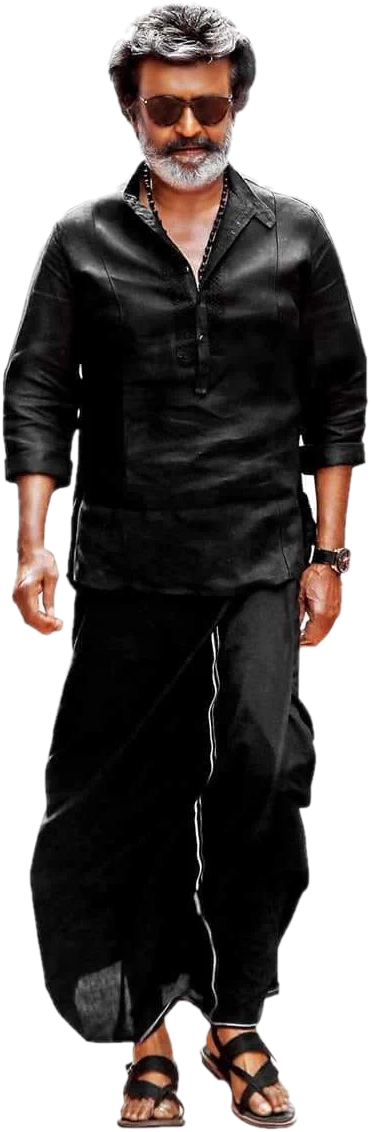
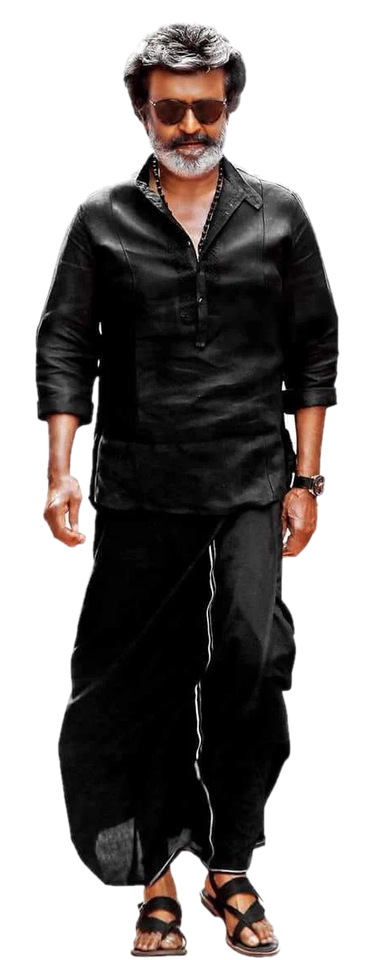
Make Thalaivar walk across the screen with real steps
Adds an animated walk cycle (alternating stride, bob, weight shift)
built from the photo, and lets him enter from the left or right
(random by default) and leave out the opposite side.

Claude-Session: https://claude.ai/code/session_01WXbiP563WEqUmaNAeeU3jy

diff --git a/overlay/overlay.js b/overlay/overlay.js
@@ -62,10 +62,11 @@ async function enter(data) {
 
   custom.hidden = !state.custom;
   cartoon.style.display = state.custom ? 'none' : '';
+  character.classList.toggle('custom', !!state.custom);
 
   bubble.classList.add('hidden');
   buttons.classList.remove('hidden');
-  place(-WIDTH - 80, false);
+  place(offstage(state.fromLeft), false);
   await wait(50);
 
   const centre = Math.round(window.innerWidth / 2 - WIDTH / 2);
@@ -76,7 +77,13 @@ async function enter(data) {
   bubble.classList.remove('hidden');
 }
 
-async function leave(text, toRight) {
+// Just off the left or right edge of the screen.
+function offstage(left) {
+  return left ? -WIDTH - 80 : window.innerWidth + 80;
+}
+
+// He keeps walking the way he came in, so he crosses the whole screen.
+async function leave(text) {
   buttons.classList.add('hidden');
   line.textContent = text;
   // Re-trigger the pop animation for the new text.
@@ -87,7 +94,7 @@ async function leave(text, toRight) {
 
   await wait(1800);
   bubble.classList.add('hidden');
-  await walkTo(toRight ? window.innerWidth + 80 : -WIDTH - 80);
+  await walkTo(offstage(!state.fromLeft));
   character.classList.remove('happy');
   busy = false;
   window.thalaivar.done();
@@ -100,7 +107,7 @@ $('yes').addEventListener('click', () => {
 
 $('later').addEventListener('click', () => {
   window.thalaivar.answer('later');
-  leave(fill('Sari sari... {snoozeMinutes} nimisham. I\'ll be back, {name}! 🕶'), false);
+  leave(fill('Sari sari... {snoozeMinutes} nimisham. I\'ll be back, {name}! 🕶'));
 });
 
 // Count comes back from the main process after YES, so the thanks line is accurate.
@@ -110,7 +117,7 @@ window.thalaivar.onCount(({ count, goal }) => {
     count >= goal
       ? fill('Goal done! {count}/{goal} 🏆 En vazhi, hydrated vazhi, {name}!', { count, goal })
       : fill(pick(THANKS), { count, goal });
-  leave(text, true);
+  leave(text);
 });
 
 // The window ignores mouse clicks except while you're over the bubble.

diff --git a/overlay/overlay.css b/overlay/overlay.css
@@ -32,6 +32,8 @@ html, body {
 #custom { max-width: 260px; max-height: 470px; object-fit: contain; }
 
 .walking #body { animation: bob .45s ease-in-out infinite; }
+/* walk.webp already has its own steps and bob */
+.custom.walking #body { animation: none; }
 .walking .foot { animation: step .9s ease-in-out infinite; }
 .walking #footR { animation-delay: -.45s; }
 .walking #veshti { animation: sway .9s ease-in-out infinite; transform-origin: 100px 252px; }

diff --git a/main.js b/main.js
@@ -13,6 +13,7 @@ const DEFAULT_CONFIG = {
   intervalMinutes: 45,
   snoozeMinutes: 10,
   dailyGoal: 8,
+  enterFrom: 'random', // 'left', 'right' or 'random'
 };
 
 let tray;
@@ -100,6 +101,7 @@ function remind() {
     count: glassesToday(),
     goal: config.dailyGoal,
     snoozeMinutes: config.snoozeMinutes,
+    fromLeft: config.enterFrom === 'random' ? Math.random() < 0.5 : config.enterFrom !== 'right',
     custom,
   });
   updateTray();

diff --git a/README.md b/README.md
@@ -8,7 +8,7 @@ Thalaivar walks onto your screen, right over VS Code, and tells you to drink wat
 
 ![Thalaivar reminder](assets/preview.png)
 
-- 🚶 Walks in from the side of the screen and stops in the middle
+- 🚶 Walks in from the left or right (taking real steps), stops in the middle, then carries on across and off the other side
 - 💬 Speech bubble with a random punch dialogue and your name
 - ✅ **YES** logs a glass and he walks off happy; **Remind me later** snoozes for 10 minutes
 - 💧 Today's glass count in the menu bar / system tray
@@ -40,9 +40,12 @@ He shows up a moment after launch, then every 45 minutes. Use the 💧 tray / me
   "name": "Akash",
   "intervalMinutes": 45,
   "snoozeMinutes": 10,
-  "dailyGoal": 8
+  "dailyGoal": 8,
+  "enterFrom": "random"
 }
 ```
+
+`enterFrom` can be `"left"`, `"right"` or `"random"`.
 
 ## Use your own Thalaivar image
 
@@ -53,7 +56,7 @@ The built-in character is a cartoon. To use your own picture or animation, drop 
 | `assets/character.png` (or `.gif` / `.webp`) | Standing and talking |
 | `assets/walk.gif` (or `.webp` / `.png`) | Walking in and out |
 
-If only one is present, it's used for both.
+If only one is present, it's used for both. The included `walk.webp` is a 4-frame walk cycle built from `character.png`: the legs alternate, he bobs, and his weight shifts from side to side.
 
 ## Notes
 
